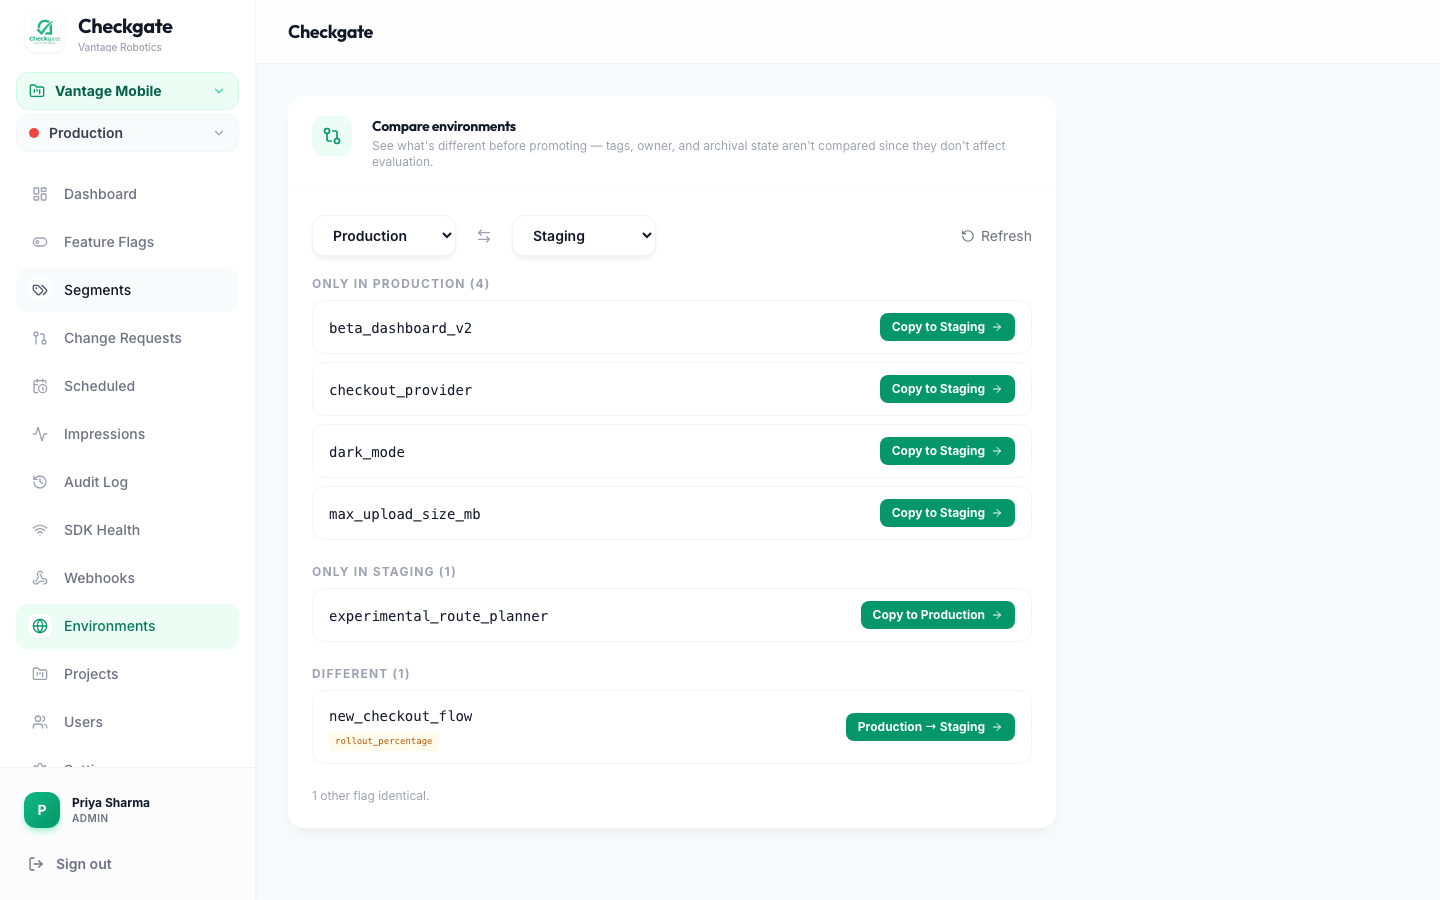
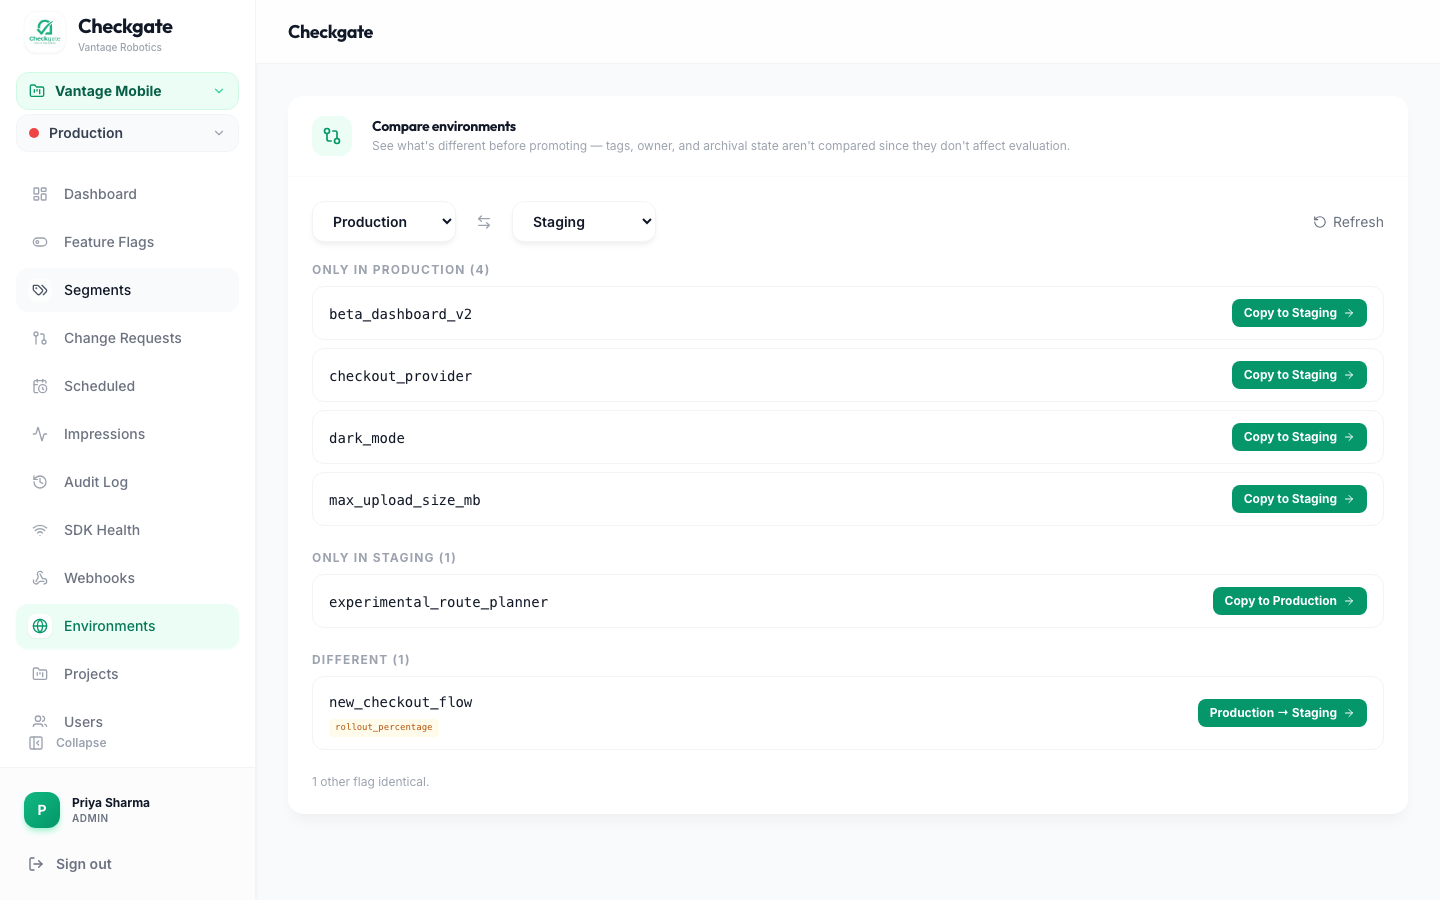
docs: added screenshots

diff --git a/README.md b/README.md
@@ -61,6 +61,10 @@ It is proudly built in Rust and ships with native SDKs for Node.js (NAPI), brows
 
 ![Environments](assets/screenshots/07-environments.png)
 
+**Collapsible sidebar** — reclaim screen space on data-dense pages; the whole dashboard is full-width by default.
+
+![Collapsed sidebar](assets/screenshots/08-sidebar-collapsed.png)
+
 ---
 
 ## Documentation
